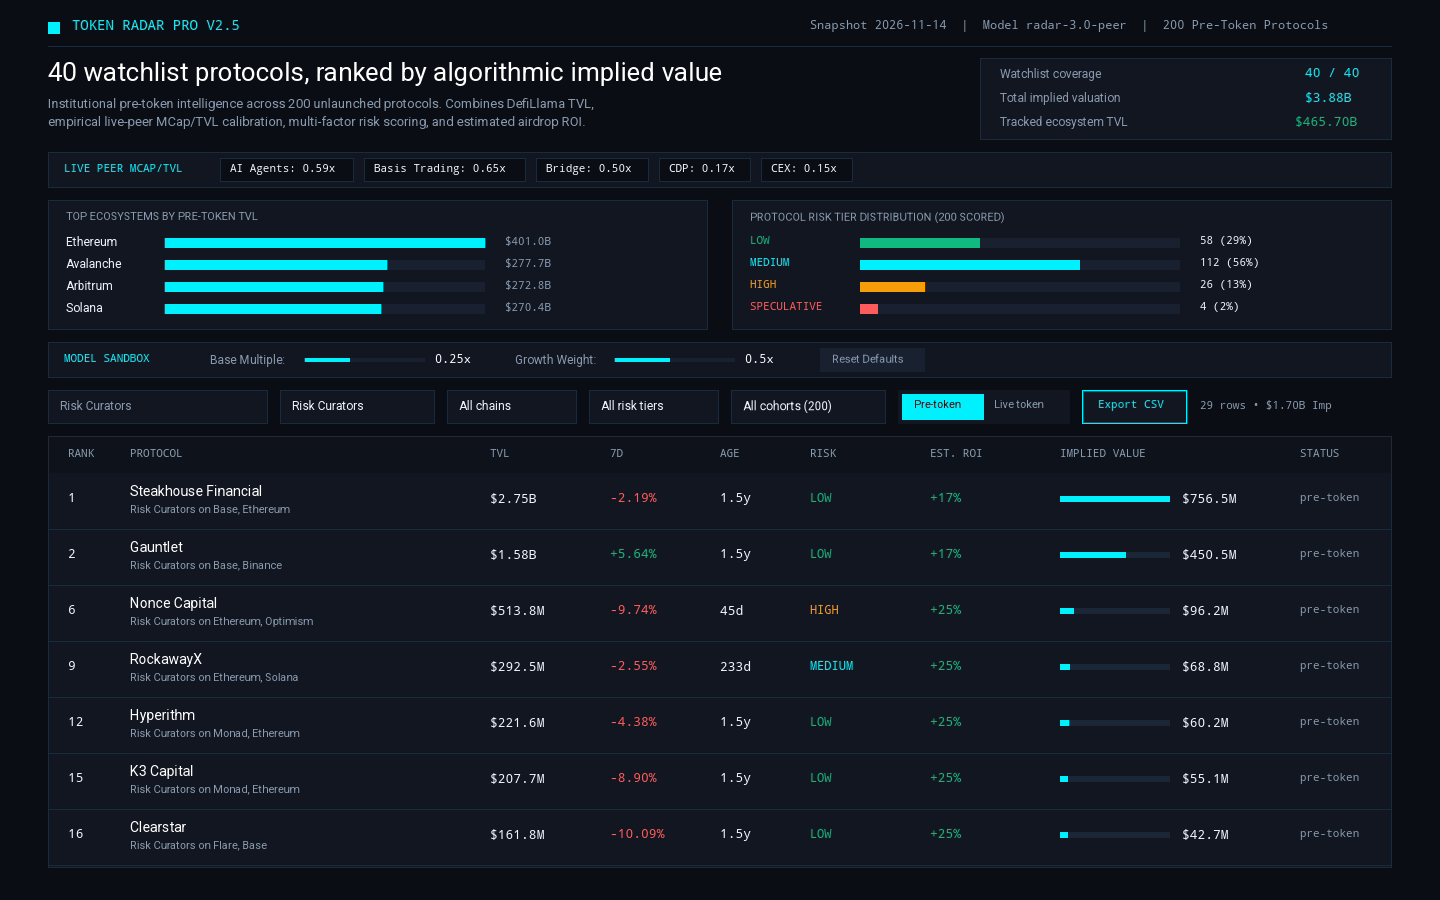
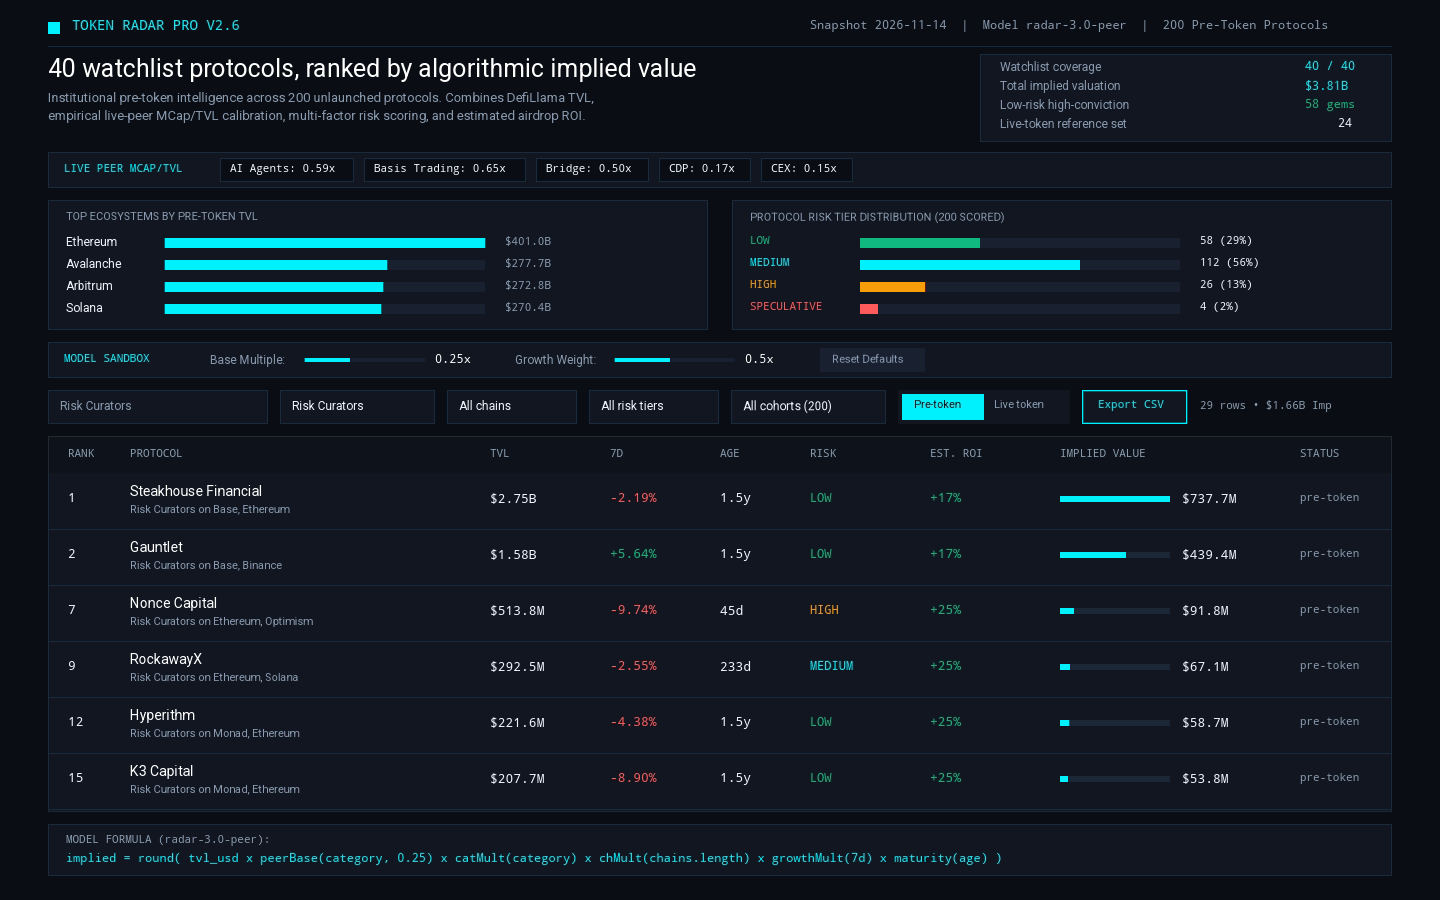
feat(v2.6): pure snapshot-driven chainMultiplier, formula parity & 4-KPI synced screenshots

diff --git a/dashboard/app.js b/dashboard/app.js
@@ -53,12 +53,7 @@
 
   function chainMultiplier(chains) {
     if (!chains || chains.length === 0) return 1.0;
-    var mult = 1.0 + Math.min(chains.length, 6) * 0.025;
-    var highGrowth = ['base', 'solana', 'monad', 'berachain', 'arbitrum', 'hyperliquid', 'optimism'];
-    for (var i = 0; i < chains.length; i++) {
-      if (highGrowth.indexOf(chains[i].toLowerCase()) >= 0) { mult += 0.06; break; }
-    }
-    return mult;
+    return Math.round((1.0 + Math.min(chains.length, 6) * 0.03) * 1000) / 1000;
   }
 
   function computePeerMultiples() {
@@ -278,7 +273,7 @@
     return el('header', { class: 'top' },
       el('div', { class: 'brand' },
         el('span', { class: 'mark', 'aria-hidden': 'true' }),
-        el('span', { class: 'brand-name', text: 'Token Radar Pro v2.5' })
+        el('span', { class: 'brand-name', text: 'Token Radar Pro v2.6' })
       ),
       el('div', { class: 'top-meta' },
         el('span', { text: 'Snapshot ' + DATA.as_of }),
@@ -594,9 +589,9 @@
       el('h2', { text: 'Quantitative Valuation & Risk Methodology (' + DATA.model_version + ')' }),
       el('p', { class: 'sub', text: 'Every pre-token protocol is evaluated deterministically from frozen snapshot metrics with zero manual overrides or name special-casing.' }),
       el('div', { class: 'formula' },
-        'implied = round( tvl_usd x ' + state.baseMult.toFixed(2) + ' x catMult(category) x chMult(chains) x (1 + clamp(change_7d, ' + m.growth_floor + ', ' + m.growth_cap + ')/100 x ' + state.growthWeight.toFixed(1) + ') x maturity(age_days) )'
+        'implied = round( tvl_usd x peerBase(category, ' + state.baseMult.toFixed(2) + ') x catMult(category) x chMult(chains.length) x (1 + clamp(change_7d, ' + m.growth_floor + ', ' + m.growth_cap + ')/100 x ' + state.growthWeight.toFixed(1) + ') x maturity(age_days) )'
       ),
-      el('p', { class: 'sub', text: 'Risk Score (5-95) combines 7d TVL velocity volatility, multi-chain diversification resilience, sector systemic risk, and protocol seasoning age. Est. Farmer ROI assumes 10% community airdrop pool scaled by capital share.' })
+      el('p', { class: 'sub', text: 'peerBase(category) uses median MCap/TVL of live-token peers in the same snapshot (clamped [0.15, 0.85]). Risk Score (5-95) combines 7d TVL velocity, chain diversification, sector risk, and protocol age.' })
     );
   }
 
@@ -626,6 +621,9 @@
     var peerBase = (row.category && PEER_MULTIPLES[row.category] !== undefined && state.baseMult === DATA.model.base_multiple)
       ? PEER_MULTIPLES[row.category]
       : state.baseMult;
+    var parityText = imp === row.implied_value_usd
+      ? '✓ Exact parity with board.json (' + fmtUsd(imp) + ')'
+      : 'Sandbox preview: ' + fmtUsd(imp) + ' (board.json: ' + fmtUsd(row.implied_value_usd) + ')';
     dialog.appendChild(el('section', { class: 'detail-section' },
       el('h3', { text: 'Implied Valuation Breakdown' }),
       el('div', { class: 'equation' },
@@ -635,7 +633,8 @@
         el('div', null, el('span', { text: 'Category / Chain Mult' }), el('b', { class: 'num', text: categoryMultiplier(row.category).toFixed(2) + 'x / ' + chainMultiplier(row.chains).toFixed(2) + 'x' })),
         el('div', null, el('span', { text: 'Growth / Maturity Mult' }), el('b', { class: 'num', text: row.growth_multiplier + 'x / ' + row.maturity_multiplier + 'x' })),
         el('div', null, el('span', { text: 'Implied Value' }), el('b', { class: 'num pos', text: fmtUsd(imp) }))
-      )
+      ),
+      el('p', { class: 'sub', text: parityText })
     ));
 
     var gasTier = (row.chains || []).some(function (c) { return c.toLowerCase() === 'ethereum'; }) ? '~$6.50 / wk' : '~$0.40 / wk';

diff --git a/lib/model.ts b/lib/model.ts
@@ -185,13 +185,10 @@ export function categoryMultiplier(category: string | null): number {
   return 1.0;
 }
 
-/** Multi-chain deployment network effect and ecosystem growth momentum multiplier. */
+/** Multi-chain deployment diversification multiplier derived purely from snapshot chain count. */
 export function chainMultiplier(chains: string[]): number {
   if (!chains || chains.length === 0) return 1.0;
-  let mult = 1.0 + Math.min(chains.length, 6) * 0.025;
-  const highGrowth = ['base', 'solana', 'monad', 'berachain', 'arbitrum', 'hyperliquid', 'optimism'];
-  if (chains.some((c) => highGrowth.includes(c.toLowerCase()))) mult += 0.06;
-  return mult;
+  return Math.round((1.0 + Math.min(chains.length, 6) * 0.03) * 1000) / 1000;
 }
 
 /** Compute empirical median MCap/TVL multiples by category from live-token peers in the snapshot. */
